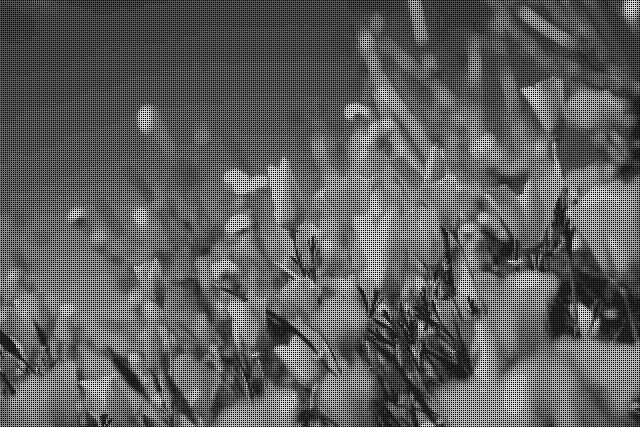
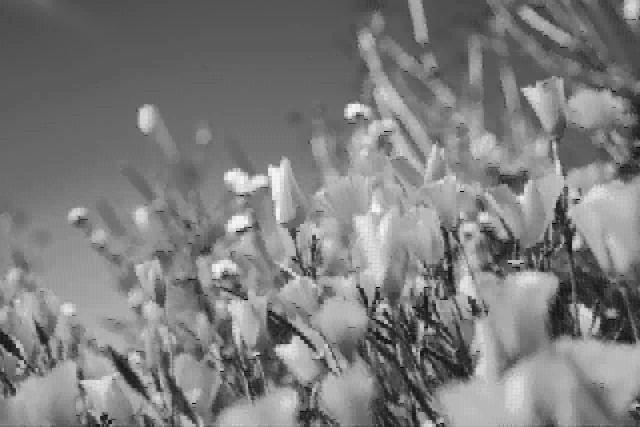
done

Changed region(s): [[0.0, 0.0, 1.0, 1.0]]

diff --git a/VectorQuantization/Main.java b/VectorQuantization/Main.java
@@ -16,7 +16,7 @@ public class Main {
             BufferedImage image = v.readGrayImage(fileName + extension);
 
 
-            BufferedImage result = v.compress(image,2, 2, 4);
+            BufferedImage result = v.compress(image,4, 4, 8);
             v.saveGrayImage(result, "compressed" + extension);
             
         }

diff --git a/VectorQuantization/Vector.java b/VectorQuantization/Vector.java
@@ -53,7 +53,7 @@ public class Vector {
         for (int i = 0; i < xSize; i++) {
             for (int j = 0; j < ySize; j++) {
                 Double newValue = vector.get(i).get(j) / value;
-                updatePixel(i, j, newValue);
+                updatePixel(j, i, newValue);
             }
         }
     }
